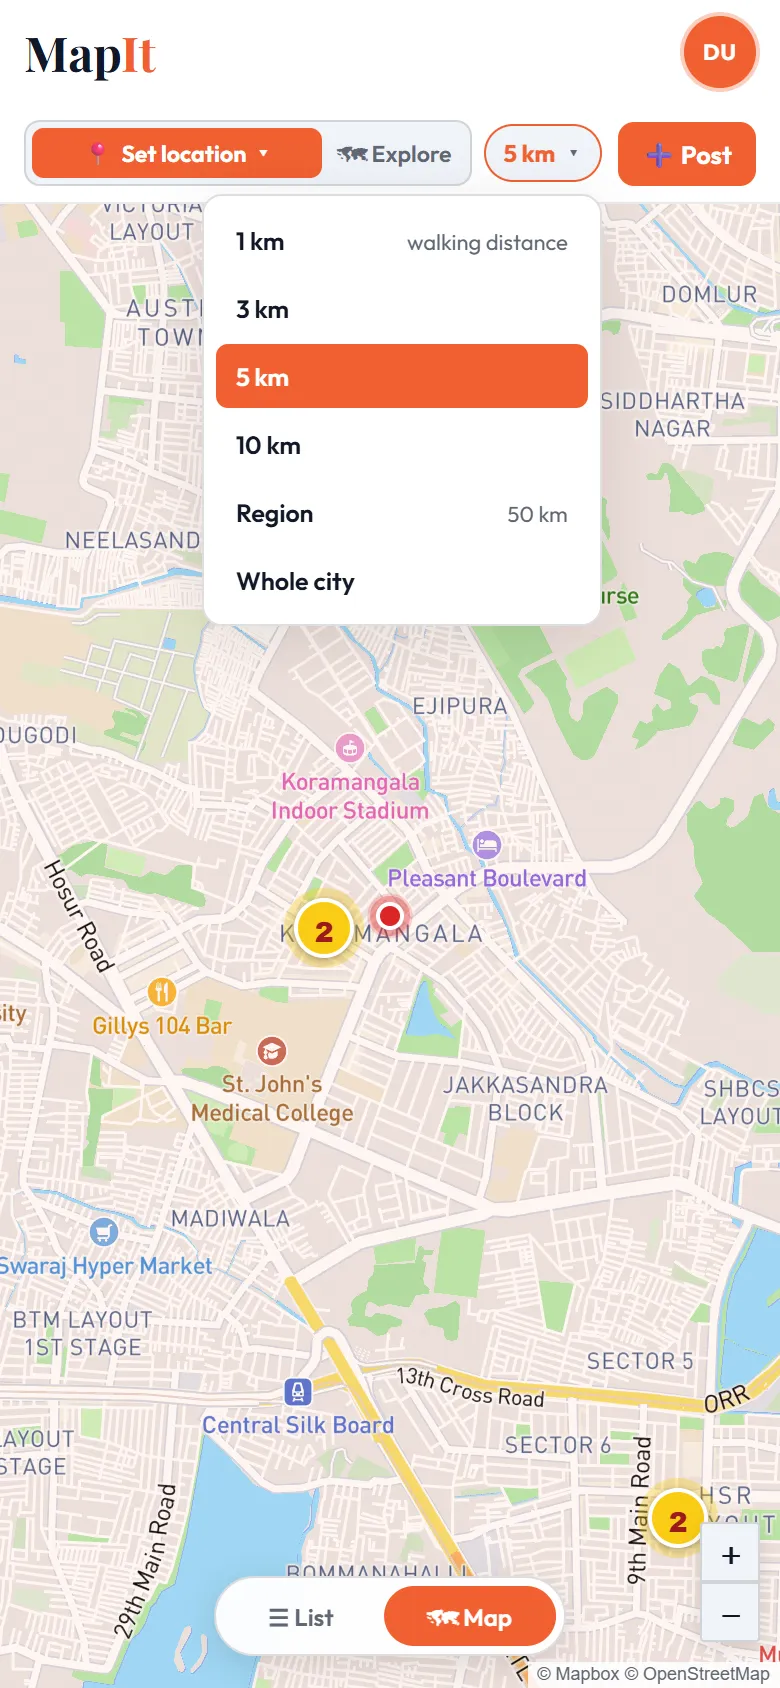
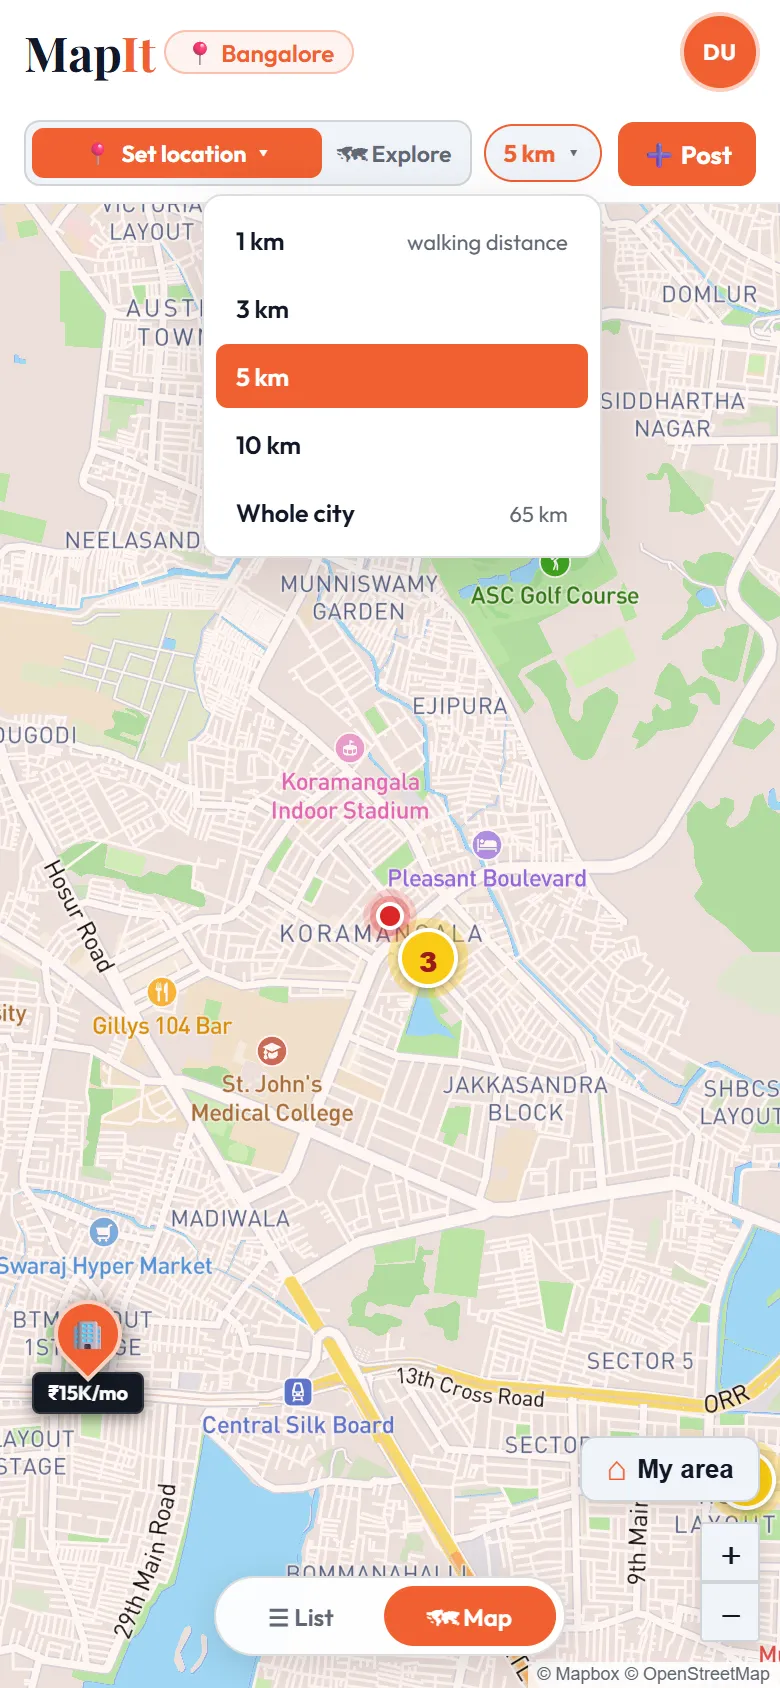
docs(guide): radius + Explore topics for Feedback Release 3
Whole city (65 km) wording; Explore steps now move-the-map first, search
behind the optional 🔍; radius + explore phone shots retaken.

diff --git a/public/user-guide.html b/public/user-guide.html
@@ -250,9 +250,10 @@ const TOPICS = [
   { id:'explore', ico:'🧭', name:'Exploring Other Areas', teaser:'Browse a neighbourhood that isn’t yours, without changing your saved location.',
     intro:'Explore lets you look around any part of the city — handy for house-hunting somewhere new.',
     steps:[
-      ['Switch to Explore','Tap <b>🗺 Explore</b> in the top bar.'],
-      ['Search a place','Type an area or a landmark (mall, hospital, school, metro station…) in the <b>Search area to jump there…</b> box on the map, or just drag the map.'],
-      ['Come back','Tap <b>📍 My location</b> to return to your saved location.']
+      ['Switch to Explore','Tap <b>🗺 Explore</b> in the top bar. It turns blue and reads <b>Exploring ✕</b>.'],
+      ['Move the map','Drag and zoom the map. Listings follow the blue dot in the middle.'],
+      ['Search a place (optional)','Tap <b>🔍</b> and type an area or a landmark (mall, hospital, school, metro station…) to jump there.'],
+      ['Come back','Tap <b>Exploring ✕</b> or <b>📍</b> to return to your saved location.']
     ] },
 
   { id:'view', ico:'🏷', name:'Viewing a Listing', teaser:'Photos, price, details, and what’s nearby.',

diff --git a/public/guide/shots.js b/public/guide/shots.js
@@ -87,7 +87,7 @@ window.GUIDE_SHOTS = {
  "radius": {
   "w": 390,
   "h": 844,
-  "v": "muzvhln7",
+  "v": "mvtn17sy",
   "marks": [
    {
     "n": 1,
@@ -101,34 +101,34 @@ window.GUIDE_SHOTS = {
     "x": 25.1,
     "y": 11.1,
     "w": 52.8,
-    "h": 26.3
+    "h": 22.3
    }
   ]
  },
  "explore": {
   "w": 390,
   "h": 844,
-  "v": "muzvhmq8",
+  "v": "mvtn18zl",
   "marks": [
    {
     "n": 1,
-    "x": 40.9,
+    "x": 11,
     "y": 7.2,
-    "w": 19.2,
+    "w": 24.8,
     "h": 3.7
    },
    {
-    "n": 2,
-    "x": 4.2,
-    "y": 13.4,
-    "w": 91.5,
-    "h": 4.9
+    "n": 3,
+    "x": 34.7,
+    "y": 7.2,
+    "w": 10.2,
+    "h": 3.7
    },
    {
-    "n": 3,
+    "n": 4,
     "x": 3.3,
     "y": 7.2,
-    "w": 38.6,
+    "w": 8.7,
     "h": 3.7
    }
   ]

diff --git a/scripts/guide-shots.js b/scripts/guide-shots.js
@@ -128,7 +128,7 @@ const MARKS = list => `(() => { const out = [];
     await ev(`toggleRadMenu({ stopPropagation(){} }); 1`); await sleep(500);
     await capture('radius', [[1, '#radChip'], [2, '#radMenu']]);
     await ev(`document.getElementById('radMenu').classList.remove('open'); setSearchMode('explore'); 1`); await sleep(1200);
-    await capture('explore', [[1, '#smExplore'], [2, '#exploreSearchBox'], [3, '#smPin']]);
+    await capture('explore', [[1, '#smExplore'], [3, '#exploreSearchBtn'], [4, '#smPin']]);
     await ev(`setSearchMode('pin'); setViewMode('list', false); 1`); await sleep(1200);
 
     await ev(`openPinsModal(); 1`); await sleep(1500);

diff --git a/Context.md b/Context.md
@@ -10,7 +10,8 @@
 - **Stack:** Node.js + Express (Vercel serverless) · Supabase (DB + Auth + Storage) · Resend (SMTP) · Leaflet.js (maps) · Single-file vanilla JS frontend
 - **Root directory:** `C:\dev\mapit\mapit-backend` *(Windows 11, new Lenovo, moved 2026-10-06; previously MacBook Air `/Users/nageshnagarajarao/Documents/Mapit project/mapit-backend`)*
 
-- **Last updated:** 2026-10-26 19:50 (UAE), checkpoint (**STRATEGY CHANGE: mapit.co.in goes PUBLIC now (stealth seeding + "no MapIt name" rule ended). Session 9L started: dedicated mobile-first review page `/review` for approvers (Nagesh, Arun + both wives; hires later). Plan + draft migration 019 committed on `feat/session-9l-review-queue` (`e67326d`, NOT pushed, NOT run). Decisions D1–D5 taken; PROD UNTOUCHED until UAT test + sign-off. Next: Nagesh runs 019 on UAT → backend.**)
+- **Last updated:** 2026-10-28 20:13 (UAE), checkpoint (**FIRST REAL LISTING + first feedback. Feedback Release 1 (PR #29 `404c3ca`: Bangalore tag, line breaks, half-BHK, PG rent-only, "listing is live" email, expiry off, Terms) and Feedback Release 2 (PR #30 `a8f7d9d`: auto-title + "✨ Write it for me") LIVE on prod, smoke 14/14 each. 019 clean + verified on UAT (prod NOT run). Next: 9L step 2 backend on `feat/session-9l-review-queue` (`ea94c32`, not pushed).**)
+- **Last updated (previous):** 2026-10-26 19:50 (UAE), checkpoint (**STRATEGY CHANGE: mapit.co.in goes PUBLIC now (stealth seeding + "no MapIt name" rule ended). Session 9L started: dedicated mobile-first review page `/review` for approvers (Nagesh, Arun + both wives; hires later). Plan + draft migration 019 committed on `feat/session-9l-review-queue` (`e67326d`, NOT pushed, NOT run). Decisions D1–D5 taken; PROD UNTOUCHED until UAT test + sign-off. Next: Nagesh runs 019 on UAT → backend.**)
 - **Last updated (previous):** 2026-10-25 13:06 (UAE), checkpoint (**Planning only, no code: unbranded WhatsApp seller checklist drafted; NEW rule = no "MapIt" name in pre-launch outreach until prod has enough listings; self-fill intake form (Google Sheet via Apps Script, owner mapit.backend@gmail.com) ⏸ pending Nagesh + Arun on hosting; invite-link option C rejected; chat pop-up moved after enough listings; seller tips + "Write it for me" description + quick-add chips added to the wizard scope. Next: Arun's real listings on prod.**)
 - **Last updated (previous):** 2026-10-25 10:44 (UAE), checkpoint (**RELEASED: PR #28 `uat → main` (`9a2af82`) — admin 🔁 Transfer tab (assisted listings → seller's account, verified phone/email only). www.mapit.co.in/admin serves the tab, route 401 without login, `smoke:prod` 14/14 (one transient "fetch failed" run, re-run clean). Next: Arun's real listings → chat pop-up → wizard.**)
 - **Last updated (previous):** 2026-10-25 08:46 (UAE), checkpoint (**Admin 🔁 Transfer tab built on `feat/admin-listing-transfer` (NOT pushed): move listings Nagesh/Arun post for sellers to the seller's own account once they join — exact VERIFIED phone/email match, server re-checks, audit row, chats stay with the admin. UAT suite `npm run uat:transfer` 20/20. Nagesh localhost click-test PASS → pushed, merged to uat (`58b15ab`), uat.mapit.co.in serves the tab, route 401 without login, `smoke:prod` 14/14. Next: PR `uat → main` (Nagesh/Arun sign-off).**)
@@ -126,7 +127,9 @@
 
 ## 🎯 Current Goal
 
-**NOW (2026-10-28, Wednesday, later) — Goal: Feedback Release 2 (auto-title + "✨ Write it for me") on uat → sign-off → PR `uat → main`; then Session 9L** (first: clean UAT's half-run 019 — tables exist, claim columns missing → rollback + full re-run). Release 1 is LIVE on prod (PR #29 `404c3ca`, smoke 14/14).
+**NOW (2026-10-28, Wednesday, evening) — Goal: Session 9L — Listing Review Queue, step 2 (backend) next.** Feedback Release 2 LIVE on prod (PR #30 `a8f7d9d`, smoke 14/14). 019 is clean on UAT (rollback + full re-run by Nagesh; James verify 6/6, EXPLAIN Index Scan on `listings_pending_queue_idx`, schema diff = exactly 019's 37 objects). 9L branch rebased onto uat (`6b1eba6`; old branch kept as `backup/session-9l-pre-rebase`). Production untouched (no 019) until 9L sign-off.
+
+**(2026-10-28, Wednesday, later) — Goal: Feedback Release 2 (auto-title + "✨ Write it for me") on uat → sign-off → PR `uat → main`; then Session 9L** (first: clean UAT's half-run 019 — tables exist, claim columns missing → rollback + full re-run). Release 1 is LIVE on prod (PR #29 `404c3ca`, smoke 14/14).
 
 **(2026-10-28, Wednesday) — Goal: Feedback Release 1** (first real listing + Arun's feedback, `fix/feedback-01`): FB-01 Bangalore tag, FB-02 line breaks, FB-03 half-BHK, FB-04 PG (rent only), FB-05 "listing is live" email, FB-06 expiry off, + Terms wording. All built + tested; FB-01/02/03/05/06 Nagesh localhost PASS; FB-04 click-test pending → push to uat → Arun check → PR `uat → main`. Session 9L continues in parallel (Nagesh runs 019 on UAT).
 
@@ -595,6 +598,8 @@ Also still pending: Arun's sign-off + `ANTHROPIC_API_KEY` creation for Session 5
 ---
 
 ## ✅ Completed This Session
+- ✅ **(2026-10-28) RELEASED: Feedback Release 2 — PR #30 `uat → main` merged by Nagesh (`a8f7d9d`).** uat checklist 1–6 PASS; prod served it in ~5 s (2 ✨ buttons, `TITLE_BUILDERS`); `smoke:prod` 14/14.
+- ✅ **(2026-10-28) 9L step 1 — 019 clean on UAT** (Nagesh rollback + full run; James verify 6/6, EXPLAIN Index Scan, schema diff = 37 objects = exactly 019). 9L branch rebased onto uat by cherry-pick (`6b1eba6`), CONTEXT note `ea94c32`; old branch kept as `backup/session-9l-pre-rebase`.
 - ✅ **(2026-10-28) RELEASED: Feedback Release 1 — PR #29 `uat → main` merged (`404c3ca`, merged by James at Nagesh's request).** Nagesh uat checklist 1–7 PASS first; `smoke:prod` 14/14; prod checks: Bangalore tag, PG, 1.5–4.5 BHK, /terms wording + date, `/api/config.listingExpiry=false` (first call answered by a warm old instance; fresh call false). PG click-test round 2 (`7d72cc9`): Beds Available removed; rent, PG For, Meals, Food Type mandatory (`required:true` + "— Select —", red *, server `REQUIRED_DETAILS`); PG needs no photo (`PHOTO_OPTIONAL_SUBCATS`). API 13/13.
 - ✅ **(2026-10-28) Feedback Release 2 built on `feat/feedback-02-auto-title` (`57c7b08`, from uat `7d72cc9`)**: `TITLE_BUILDERS` for all 17 subcategories (title follows details while empty/still auto; stops once the seller types; ✨ Suggest; edit never auto-changes a saved title) + "✨ Write it for me" (opening + one line per filled detail + closing per category; asks before replacing; box grows to 320px). No AI, no price/address/phone. Unit-driven number format (Year stays 2019). Behaviour test 44/44 (scratchpad `fb02-behaviour.js`). Screenshots `docs/screenshots/session-9-feedback-02/` before/after-title-desc-{apartment,pg,car}-phone. **Nagesh localhost click-test PASS.** Tips + quick-add chips stay with the 5-screen wizard.
 - ✅ **(2026-10-28) UAT 019 state found half-run** (read-only check): `staff_members` + `listing_reviews` exist, `listings.review_claimed_by/_until` missing. Fix at 9L start: `019-rollback.sql` (all IF EXISTS) → full 019 → `019 verify: OK`.
@@ -1329,9 +1334,9 @@ Also still pending: Arun's sign-off + `ANTHROPIC_API_KEY` creation for Session 5
 
 | Task | Status | File(s) Touched | Notes |
 |------|--------|-----------------|-------|
-| **Feedback Release 2 (auto-title + Write it for me)** | 🔄 Click-test PASS → pushed to uat (2026-10-28); next: sign-off → PR | `MapIt_MVP_v1.html` / `public/index.html` | Branch `feat/feedback-02-auto-title`; frontend only, no migration |
+| **Feedback Release 2 (auto-title + Write it for me)** | ✅ RELEASED PR #30 `a8f7d9d` (2026-10-28), uat checklist 1–6 PASS, smoke 14/14 | `MapIt_MVP_v1.html` / `public/index.html` | Branch `feat/feedback-02-auto-title`; frontend only, no migration |
 | **Feedback Release 1 (FB-01…06 + Terms)** | ✅ RELEASED PR #29 `404c3ca` (2026-10-28), smoke 14/14 | `MapIt_MVP_v1.html`/`public/index.html`, `src/routes/listings.js`, `src/config/listingRules.js` (new), `src/server.js`, `src/utils/notifySeller.js`, `src/utils/notifyListings.js`, `public/admin.html`, `public/user-guide.html`, `docs/legal/terms-privacy-draft2.html` | Branch `fix/feedback-01`, 7 commits, no migration |
-| **Session 9L — Listing Review Queue (`/review`)** | 🔄 Plan done, 019 drafted; waiting for Nagesh to run 019 on UAT (2026-10-26 19:50) | `docs/technical/review-queue-plan.md`, `database/migrations/019-listing-review-queue.sql`, `database/scripts/019-rollback.sql` | Branch `feat/session-9l-review-queue` (`e67326d`, not pushed). Prod untouched until sign-off |
+| **Session 9L — Listing Review Queue (`/review`)** | 🔄 Step 1 DONE (019 clean on UAT, verify 6/6, EXPLAIN index scan, schema diff = 019 only, 2026-10-28); next: step 2 backend | `docs/technical/review-queue-plan.md`, `database/migrations/019-listing-review-queue.sql`, `database/scripts/019-rollback.sql` | Branch `feat/session-9l-review-queue` rebased onto uat (`6b1eba6` + `ea94c32`, not pushed); backup `backup/session-9l-pre-rebase`. Prod untouched until sign-off |
 | **Self-fill seller intake form (Google Sheet)** | ❌ Superseded 2026-10-26 (public release) | none yet | Apps Script `/exec` page (test GPS first) or neutral static host; owner mapit.backend@gmail.com; no MapIt name; no Supabase change; ~½ day |
 | **Real listings on prod (proxy posting)** | ❌ Superseded 2026-10-26 (public release; sellers post themselves) | none | Unbranded WhatsApp checklist → Arun/Nagesh post → approve within 4 h → Transfer when the seller joins |
 | **Admin 🔁 Transfer tab** | ✅ RELEASED PR #28 `9a2af82` (2026-10-25), smoke 14/14 | `src/routes/admin.js`, `public/admin.html`, `src/utils/auditLog.js`, `scripts/uat/admin-transfer.suite.js`, `package.json` | Option A manual handover; chats stay with admin; no migration |
@@ -1529,6 +1534,16 @@ Also still pending: Arun's sign-off + `ANTHROPIC_API_KEY` creation for Session 5
 ---
 
 ## 📂 Key Files Modified
+MapIt_MVP_v1.html + public/index.html — 2026-10-28: Bangalore city tag; `.ld-desc` pre-wrap; `BHK_OPTIONS`; PG fields + `RENT_ONLY_SUBCATS` + `PHOTO_OPTIONAL_SUBCATS` + `required:true` fields (`missingRequiredField`, `syncPgFood`); expiry label/Renew hidden via `RUNTIME_CFG.listingExpiry`; Release 2 `TITLE_BUILDERS`, `buildAutoTitle/Description`, `suggestTitle`, `writeDescriptionForMe`, `.suggest-btn`.
+src/config/listingRules.js — 2026-10-28 (NEW): `LISTING_EXPIRY_ENABLED=false`, `RENT_ONLY_SUBCATEGORIES` + `enforceRentOnly()`, `REQUIRED_DETAILS` + `missingRequiredDetail()`.
+src/routes/listings.js — 2026-10-28: `cleanDescription()` on POST/PUT; `isLive` honours expiry switch; Cleanup stale empty when off; rent-only + required-detail checks on POST/PUT; approve → `waitUntil(notifySellerListingLive)`.
+src/utils/notifySeller.js — 2026-10-28: `siteUrl()` + `notifySellerListingLive()` ("✅ Your listing is live" email).
+src/utils/notifyListings.js — 2026-10-28: alert email description `\n→<br>` after escaping.
+src/server.js — 2026-10-28: `/api/config.listingExpiry`.
+public/admin.html — 2026-10-28: Pending/Report description cards pre-wrap.
+public/user-guide.html — 2026-10-28: no expiry wording; photos optional for Plots and PG.
+docs/legal/terms-privacy-draft2.html — 2026-10-28: listings stay active until sold/deleted; Last updated 28 October 2026.
+docs/screenshots/session-9-feedback-01/, session-9-feedback-02/ — 2026-10-28 (NEW): before/after shots.
 docs/technical/review-queue-plan.md — 2026-10-26 19:50 (NEW): Session 9L plan + decisions log (D1–D5).
 database/migrations/019-listing-review-queue.sql — 2026-10-26 19:50 (NEW, DRAFT, NOT RUN): approver roster, claim columns, review history, queue index, claim function, verify block.
 database/scripts/019-rollback.sql — 2026-10-26 19:50 (NEW): drops everything 019 adds.
@@ -1911,7 +1926,8 @@ session-log.html           — Session 7: 6 historical session entries imported;
 - **ℹ (2026-10-28) `RENT_ONLY_SUBCATS` (page) and `RENT_ONLY_SUBCATEGORIES` (server) are two lists** — comments in both; server is the real rule.
 - **ℹ (2026-10-28) Context.md branch drift:** `fix/feedback-01` took the 9L branch's Context.md (file only, not 019); when 9L merges, resolve the Context.md conflict by keeping the newer (superset) version.
 - **ℹ (2026-10-28) Windows: stopping `npm start` leaves `node src/server.js` running on :3001** — start the server with `node src/server.js` directly when it must be restarted from a tool.
-- **⏸ (2026-10-26 19:50) Migration 019 not run yet** — Nagesh runs it on UAT (`xesekrkxbtybbxpsvxuz`) tomorrow; expect `019 verify: OK`. Then James: EXPLAIN on the claim query + optional read-only schema diff vs prod (difference = exactly 019's objects, by design).
+- **✅ (2026-10-28) 019 on UAT — DONE and verified.** UAT had been half-run (tables, no claim columns); Nagesh ran `019-rollback.sql` + full `019` (SQL Editor shows "No rows returned"; the `019 verify: OK` NOTICE is not displayed — success = no red error). James read-only verify 6/6 (columns, 2 tables, anon 42501 on tables + claim function). EXPLAIN (enable_seqscan off, 0 pending rows): `Index Scan using listings_pending_queue_idx` + LockRows. Schema diff prod vs UAT: 37 EXTRA on UAT = exactly 019 (2 tables, 16 columns, 13 constraints, 5 indexes, 1 function), no MISSING/CHANGED; NOTE server_version 17.6 (prod) vs 17.11 (UAT), informational. Gotcha: the UAT inventory file held the result twice (JSON + Markdown table) — compare used the JSON part only. Production: 019 still NOT run (by design, at 9L release).
+- **⏸ (2026-10-26 19:50, superseded 2026-10-28) Migration 019 not run yet** — Nagesh runs it on UAT (`xesekrkxbtybbxpsvxuz`) tomorrow; expect `019 verify: OK`. Then James: EXPLAIN on the claim query + optional read-only schema diff vs prod (difference = exactly 019's objects, by design).
 - **ℹ (2026-10-26 19:50) Admin Pending "Remove" = hard delete** (`DELETE /api/listings/:id`) — seller never learns why. Stays on prod until 9L is released (Nagesh: prod untouched).
 - **ℹ (2026-10-26 19:50) No session refresh anywhere** — Supabase token lasts 1 h; 9L adds `POST /api/auth/refresh` for the review page.
 - **ℹ (2026-10-26 19:50) `MapIt_Admin_v1.html` is stale** (last `82378f4`, no Transfer tab); `public/admin.html` is the real source. Decide its fate during 9L.
@@ -2109,6 +2125,9 @@ session-log.html           — Session 7: 6 historical session entries imported;
 ---
 
 ## 💡 Decisions Made
+- **(2026-10-28, Nagesh) Order: Release 1 → Release 2 (auto-title + Write it for me) → 9L.** Few listings yet, so the admin Pending tab copes; seller posting quality matters most now. Move 9L ahead if approvals start piling up.
+- **(2026-10-28) Auto-title + description are rule-based templates, not AI** (no cost, no invented facts), built standalone so the wizard reuses them; owner counts kept out of titles (ambiguous wording); price left out of descriptions (stale after edits). Tips + chips stay with the wizard.
+- **(2026-10-28) 9L branch moved onto uat by reset + cherry-pick** (not a rebase with a Context.md conflict): uat's Context.md was verified to be a superset first; backup branch kept.
 - **(2026-10-28, Nagesh) Feedback Release 1 before the 9L build** (real seller affected; all small, no migration); 019 on UAT runs in parallel.
 - **(2026-10-28) Expiry off via a feature flag, not code removal or a prod `UPDATE expires_at = NULL`** — reversible in one line, no prod data change.
 - **(2026-10-28, Nagesh) PG fields** = merged list (Nagesh's + James's, Single kept in Sharing). PG is rent-only, enforced server-side.
@@ -2519,10 +2538,14 @@ session-log.html           — Session 7: 6 historical session entries imported;
 
 ## 🔜 Next Steps (Queued)
 
-**⬅ NOW (2026-10-28, later) — ordered:**
-1. **Release 2 on uat:** Nagesh/Arun check uat.mapit.co.in (title follows details, ✨ Suggest, ✨ Write it for me, PG/Cars wording) → PR `uat → main` → `smoke:prod`.
-2. Nagesh tells the seller Release 1 is live (close the loop).
-3. **Session 9L:** clean UAT 019 (rollback → full run → `019 verify: OK`) → EXPLAIN + schema diff → backend → mockup → `review.html` → seller side → UAT → release (list below).
+**⬅ NOW (2026-10-28 20:13) — ordered (resume next session with /resume):**
+1. **9L step 2 — backend** on `feat/session-9l-review-queue`: `src/routes/review.js` (`/me`, `/access-request`, `/next`, `/:id/approve`, `/:id/reject`, `/:id/release`, `/team`), `requireReviewer` in `auth.js`, `POST /api/auth/refresh`, seller rejection email (beside `notifySellerListingLive` in `notifySeller.js`), `npm run uat:review` incl. two approvers claiming at once (~3–4 h).
+2. 9L steps 3–7: phone mockup → `public/review.html` → seller side ("Not approved: reason" + Edit & resubmit) → UAT with both wives → release (019 on prod first).
+3. Nagesh tells the seller Releases 1 + 2 are live (close the loop).
+4. Optional (Nagesh's OK pending): `docs/feedback/feedback-log.md` (FB-01…06) + `/feedback` triage skill.
+5. Later: 5-screen wizard (reuses `TITLE_BUILDERS`) + seller tips + quick-add chips; chat pop-up; admin "₹ ₹" fix; 9H (expiry plan before re-enabling).
+
+**⬅ ✅ DONE (2026-10-28, later):** Release 2 on uat → PR #30 → smoke; UAT 019 rollback + full run → verify + EXPLAIN + schema diff.
 
 **⬅ ✅ DONE (2026-10-28) — Feedback Release 1, ordered:**
 1. **Nagesh: localhost click-test FB-04 PG** (Real Estate → PG: Sell greyed + hint; Meals=No → Food Type "Not applicable"; post → detail shows PG fields + "/mo"; appears under 🔑 Rent Property, not Buy Property).
